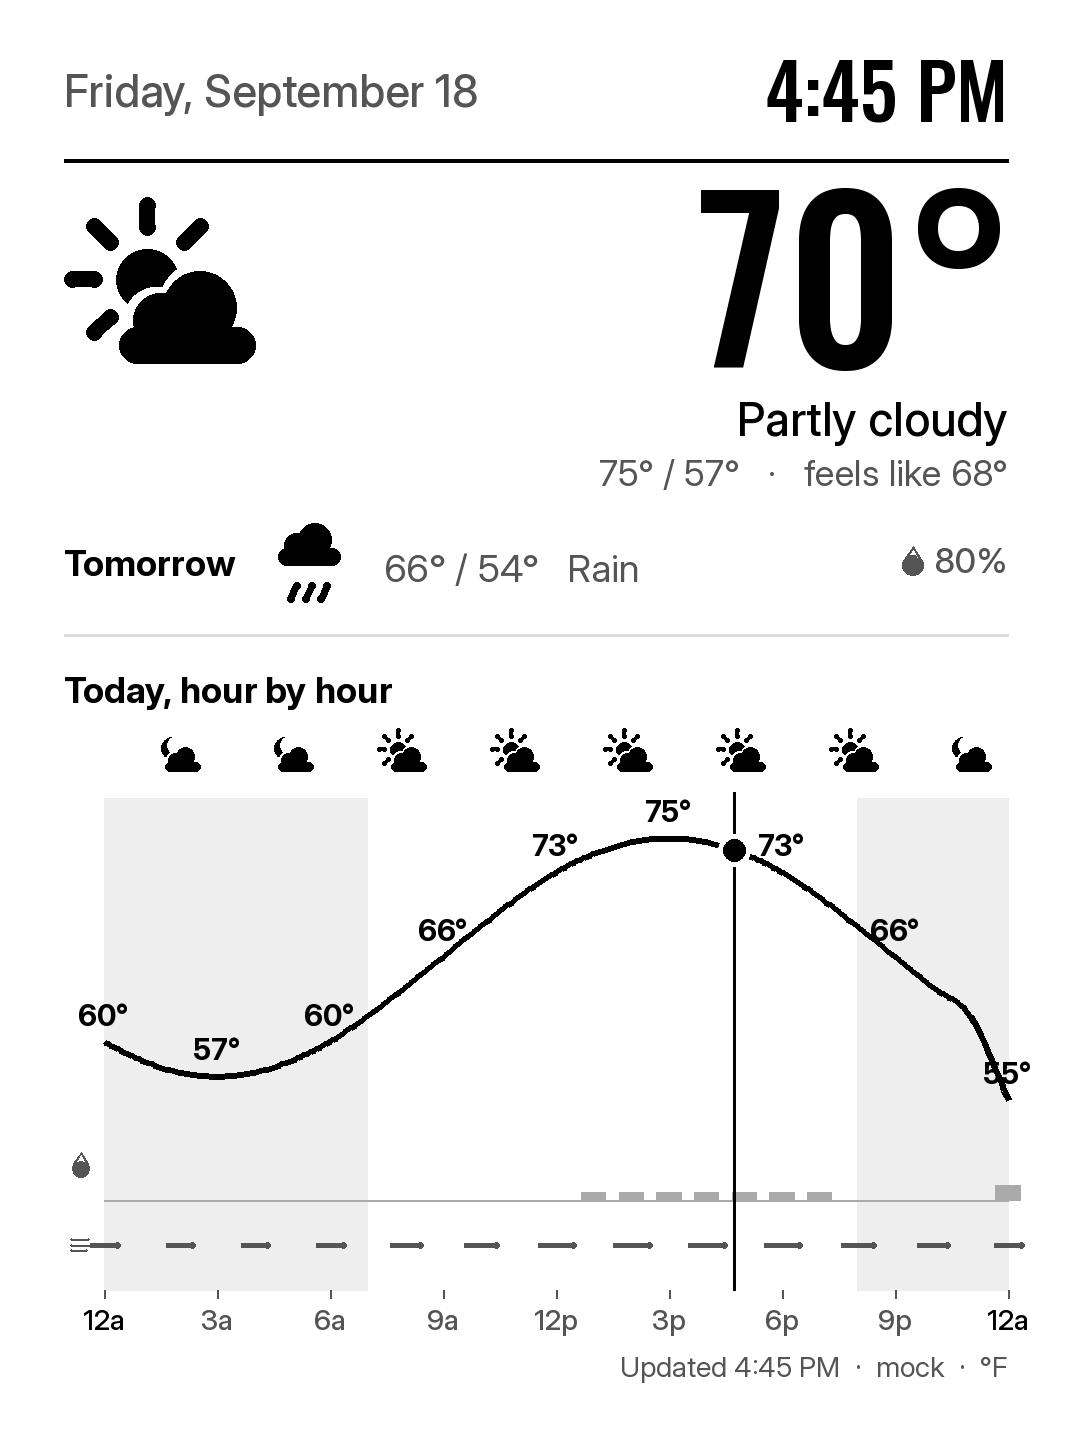
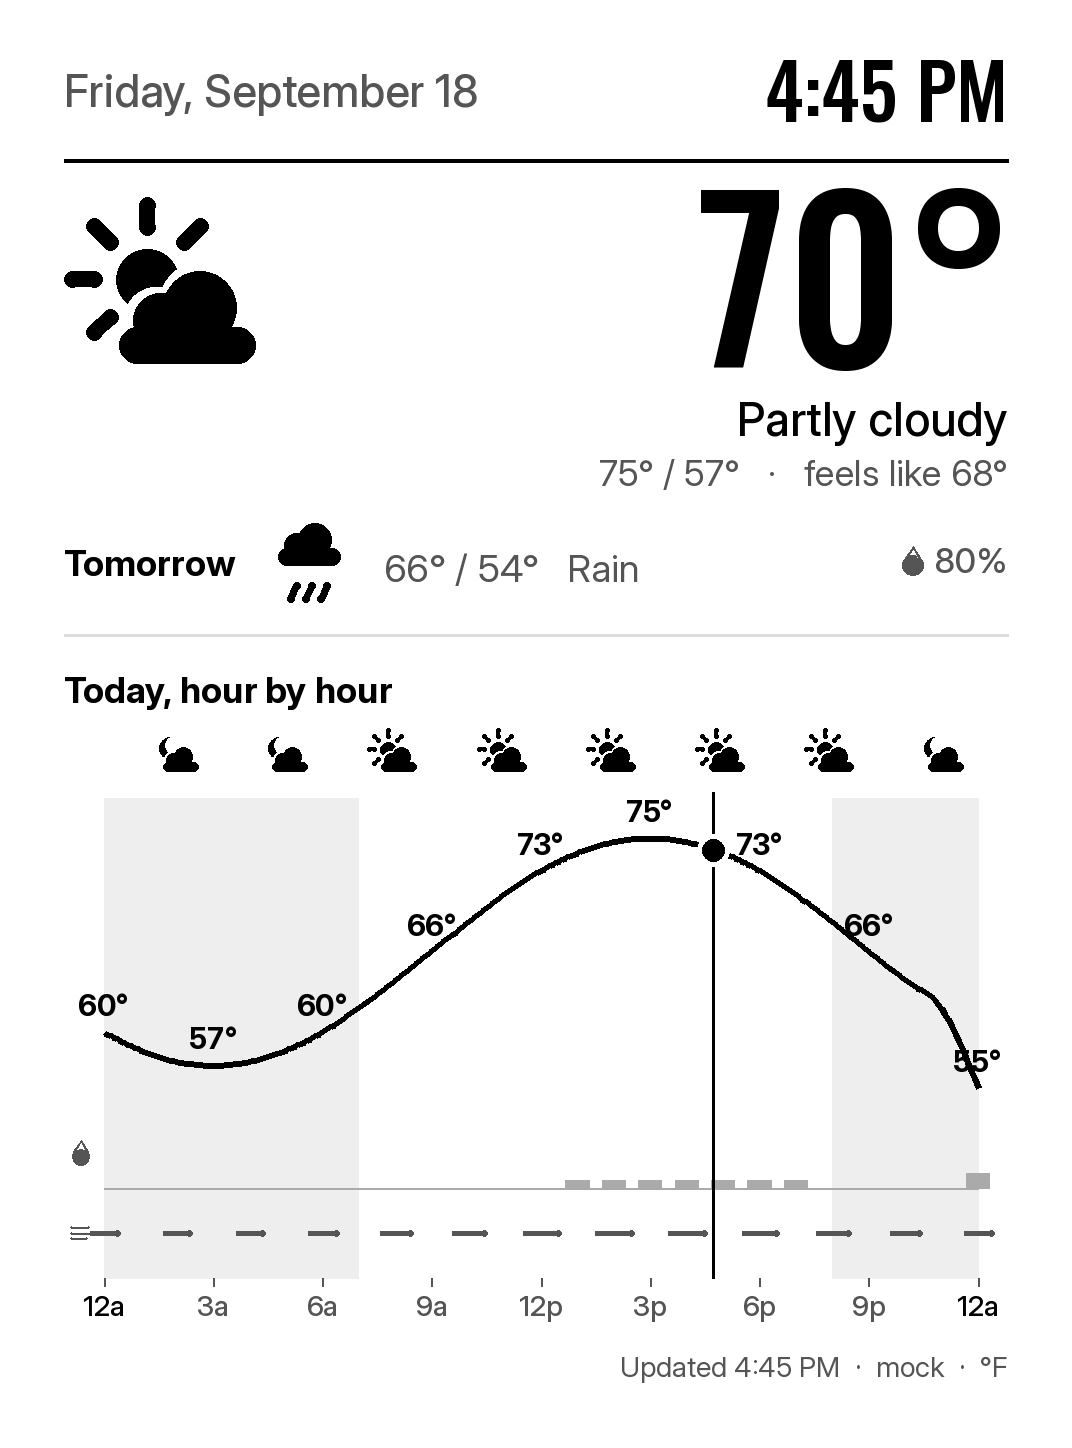
fix(skins): timeline labels and last column inside the box; docs for the timeline skin
The hour labels sat a few pixels below the chart box and the last hour
landed on its right edge; the label row is taller and the plot ends 30
design pixels before the edge. README table row and feature line,
AGENTS.md layout, CHANGELOG, ROADMAP; test_band_chart imports the chart's
design constants (carried from #20).

diff --git a/src/paperwhite_weather/skins/timeline_chart.py b/src/paperwhite_weather/skins/timeline_chart.py
@@ -80,7 +80,7 @@ def draw_timeline(
     def px(design: float) -> int:
         return max(1, round(design * scale))
 
-    label_h = px(_LABEL_SIZE) + px(16)
+    label_h = px(_LABEL_SIZE) + px(28)
     rain_h = px(_RAIN_HEIGHT)
     wind_h = px(_WIND_HEIGHT) if wind and height > px(420) else 0
     icon = px(_ICON_SIZE)
@@ -93,7 +93,8 @@ def draw_timeline(
     day_font = load_font("bold", px(26))
     glyph_left = left + px(4)
     plot_left = left + px(40)
-    step = (right - plot_left) / (count - 1)
+    plot_right = right - px(30)  # room for the last hour label and the curve's cap
+    step = (plot_right - plot_left) / (count - 1)
 
     def x_of(index: float) -> float:
         return plot_left + step * index
@@ -145,7 +146,7 @@ def draw_timeline(
         x0, x1 = x_of(k) - step * 0.32, x_of(k) + step * 0.32
         fill = DARK_GRAY if probability >= 50 else LIGHT_GRAY
         draw.rectangle((x0, baseline - bar, x1, baseline), fill=fill)
-    draw.line([(plot_left, baseline), (right, baseline)], fill=LIGHT_GRAY, width=px(2))
+    draw.line([(plot_left, baseline), (plot_right, baseline)], fill=LIGHT_GRAY, width=px(2))
     drop = px(26)
     draw_drop(
         draw,
@@ -189,7 +190,7 @@ def draw_timeline(
         x = x_of(k)
         if local.hour % _LABEL_EVERY == 0:
             draw.text(
-                (x, bottom - label_h + px(12)),
+                (x, bottom - label_h + px(10)),
                 _hour_label(local, time_format),
                 font=label_font,
                 fill=BLACK if local.hour == 0 else DARK_GRAY,

diff --git a/tests/test_band_chart.py b/tests/test_band_chart.py
@@ -8,7 +8,7 @@ import pytest
 from PIL import Image, ImageDraw
 
 from paperwhite_weather.models import Condition, DailyForecast
-from paperwhite_weather.skins.band_chart import draw_band_chart
+from paperwhite_weather.skins.band_chart import _ICON_SIZE, _NAME_SIZE, draw_band_chart
 
 _DAYS = (
     (Condition.PARTLY_CLOUDY, 57, 75, 10),
@@ -74,7 +74,7 @@ def test_higher_temperatures_sit_higher_on_one_axis() -> None:
     # below Sat's low (54) on the same axis.
     tue, sat = dot_rows(4), dot_rows(1)
     assert tue and sat
-    band = (20 + 96 + 12 + 34 + 72, 540 - 40 - 36)  # the curve area between labels
+    band = (20 + _ICON_SIZE + 12 + _NAME_SIZE + 72, 540 - 40 - 36)  # the curve area
     tue_in = [y for y in tue if band[0] <= y <= band[1]]
     sat_in = [y for y in sat if band[0] <= y <= band[1]]
     assert min(tue_in) < min(sat_in) and max(tue_in) > max(sat_in)
@@ -107,7 +107,9 @@ def test_ring_never_touches_the_dots(current: float) -> None:
     x = 20 + column * 0.5
     # The dots of today's column: the topmost and bottommost dark pixels on its center line.
     rows = [
-        y for y in range(20 + 96 + 12 + 34 + 72, 540 - 76) if plain.getpixel((round(x), y)) < 128
+        y
+        for y in range(20 + _ICON_SIZE + 12 + _NAME_SIZE + 72, 540 - 76)
+        if plain.getpixel((round(x), y)) < 128
     ]
     high_y, low_y = min(rows), max(rows)
     for center in (high_y + 9, low_y - 9):

diff --git a/tests/test_timeline_chart.py b/tests/test_timeline_chart.py
@@ -92,8 +92,7 @@ def test_now_marker_moves_with_the_time_and_the_night_is_shaded(sun: SunTimes) -
     # A column at 3 AM lies in the night shade; one at noon does not. Probe a row above
     # the curve area, where only the shade can put ink.
     plot_left = 20 + 40
-    step = 944 / 24 * 1.0
-    step = (944 - 40) / 24
+    step = (944 - 40 - 30) / 24
     y = 20 + 56 + 54 - 20
     at_3 = afternoon.getpixel((round(plot_left + 3 * step), y))
     at_noon = afternoon.getpixel((round(plot_left + 12 * step), y))

diff --git a/README.md b/README.md
@@ -18,7 +18,7 @@ displays it.
 ## ✨ Features
 
 - 🖼 **Kindle-native rendering**: 1072x1448 grayscale PNG, quantized to the panel's 16 gray levels, landscape (default) or portrait, each with its own layout
-- 🎨 **Six skins on one data model**, from quiet to detailed: `minimal`, `big-clock`, `forecast`, `graphic`, `weather-station`, and the serif `newspaper`; each has a portrait and a landscape layout, and all draw from the same snapshot
+- 🎨 **Seven skins on one data model**, from quiet to detailed: `minimal`, `big-clock`, `forecast`, `graphic`, `timeline` (the day hour by hour), `weather-station`, and the serif `newspaper`; each has a portrait and a landscape layout, and all draw from the same snapshot
 - 🌡 **The week on one scale**: each day's low-to-high as a bar on a shared axis, today's bar marked at the current temperature
 - 🔌 **Pluggable providers**: Open-Meteo for live data (no API key), a deterministic `mock` provider for development
 - 🌤 **Monochrome icons** drawn with vector primitives, so they scale to any panel and carry no license baggage
@@ -116,7 +116,7 @@ src/paperwhite_weather/
 ├── icons.py           # monochrome condition icons drawn with Pillow primitives
 ├── sun.py             # civil dawn/dusk, sunrise/sunset via astral
 ├── providers/         # WeatherProvider protocol, mock and Open-Meteo providers, registry
-├── skins/             # Skin protocol, Canvas helper, six skins, registry
+├── skins/             # Skin protocol, Canvas helper, seven skins, registry
 ├── render.py          # render_dashboard(): compose, rotate, quantize to 16 grays; render_offline()
 ├── service.py         # DashboardService (cache + per-minute frames) and the HTTP server
 └── cli.py             # `paperwhite render | gallery | serve | skins | providers | version`
@@ -167,15 +167,16 @@ portrait. `paperwhite gallery` produces all of these; CI uploads them on every r
 | `big-clock` | <img src="docs/img/big-clock-landscape-view.png" width="420"> | <img src="docs/img/big-clock-portrait.png" width="200"> |
 | `forecast` | <img src="docs/img/forecast-landscape-view.png" width="420"> | <img src="docs/img/forecast-portrait.png" width="200"> |
 | `graphic` | <img src="docs/img/graphic-landscape-view.png" width="420"> | <img src="docs/img/graphic-portrait.png" width="200"> |
+| `timeline` | <img src="docs/img/timeline-landscape-view.png" width="420"> | <img src="docs/img/timeline-portrait.png" width="200"> |
 
 ## 🗺 Roadmap
 
 The skins are in their second pass (September 2026), with the direction **fewer words,
 more pictures**: Inter and Oswald typefaces, redrawn icons with night variants, the sun
 arc, temperature bars on a shared track, and the `graphic` skin's band chart are in;
-`minimal` is the quiet end of the range. Still to come: a `timeline` skin drawing the
-day hour by hour (the hourly data is already in the model), and layout passes over
-`weather-station`, `big-clock`, and `newspaper` (which stays text-first on purpose). The
+`minimal` is the quiet end of the range and `timeline` draws the day hour by hour from
+the hourly forecast. Still to come: layout passes over `weather-station`, `big-clock`,
+and `newspaper` (which stays text-first on purpose). The
 full plan, with what is done and what is open, is in [`docs/ROADMAP.md`](docs/ROADMAP.md);
 ideas are welcome as issues.
 

diff --git a/CHANGELOG.md b/CHANGELOG.md
@@ -32,9 +32,17 @@ Format: [Keep a Changelog](https://keepachangelog.com/en/1.1.0/); versioning: [S
   icon, the temperature in the Oswald display face), the optional metrics as glyphs
   (thermometer, drops, wind), the sun arc, and the week as a high/low band chart
   (`skins/band_chart.py`: two smooth curves with the band between, values by the dots,
-  a rain drop per day, today's temperature as a hollow ring). Shared pieces on the
+  a rain drop per day, today's temperature as a hollow ring when it has clear room
+  from the dots). Shared pieces on the
   canvas: `band_chart()`, `metrics_strip()`, `number()`; glyphs `icons.draw_wind` and
   `icons.draw_thermometer`.
+- `timeline` skin, the day hour by hour from the hourly forecast
+  (`skins/timeline_chart.py`): a temperature curve with its value every three hours and
+  a marker at now, the night shaded, rain probability as a bar per hour, wind as strokes
+  that follow the speed, condition icons above every third hour (moon variants after
+  sunset), a divider and the weekday at midnight. Portrait shows today midnight to
+  midnight with tomorrow as one row; landscape runs into tomorrow's morning with
+  tomorrow in the corner. Without hourly data the skin says so instead of a chart.
 - Four more skins, each with portrait and landscape layouts: `newspaper` (serif front
   page), `weather-station` (metrics grid), `big-clock`, and `forecast`. Shared drawing
   helpers in `skins/common.py`; DejaVu Serif bundled alongside DejaVu Sans.

diff --git a/AGENTS.md b/AGENTS.md
@@ -52,8 +52,10 @@ src/paperwhite_weather/
                     sun_arc(), temperature_bars(), band_chart(), day_columns(), metrics_strip(),
                     number(), footer(), metrics()),
                     band_chart.py (draw_band_chart: the week's highs and lows as two curves
-                    with the band between), minimal.py, newspaper.py, weather_station.py,
-                    big_clock.py, forecast.py, graphic.py;
+                    with the band between), timeline_chart.py (draw_timeline: hours as a
+                    temperature curve, rain bars, wind, night shading; hours_from_midnight),
+                    minimal.py, newspaper.py, weather_station.py, big_clock.py, forecast.py,
+                    graphic.py, timeline.py;
                     registry in __init__.py: get_skin(name), available_skins()
   render.py         render_dashboard(snapshot, settings, now) -> "L" image at native size;
                     render_offline(settings, last_attempt_at, message); quantize_grayscale(image, levels)

diff --git a/docs/ROADMAP.md b/docs/ROADMAP.md
@@ -108,6 +108,8 @@ the refinement time goes, once the device runs unattended.
       (weather-station grid, newspaper deck). UV and moon phase: not in the model yet.
 - [ ] Refine layouts on the physical panel: type sizes from across the room, ghosting
       after partial refreshes, the amount of empty space in portrait.
+- [x] Hourly forecast in the model (PR #16) and the `timeline` skin drawing it (2026-09-20).
+- [x] `graphic` skin: hero, metric glyphs, sun arc, and the week as a band chart (PR #20).
 - [ ] UV index and moon phase in the model and the weather-station skin.
 
 ### Refinement backlog (maintainer review of the first versions, 2026-09-19)
